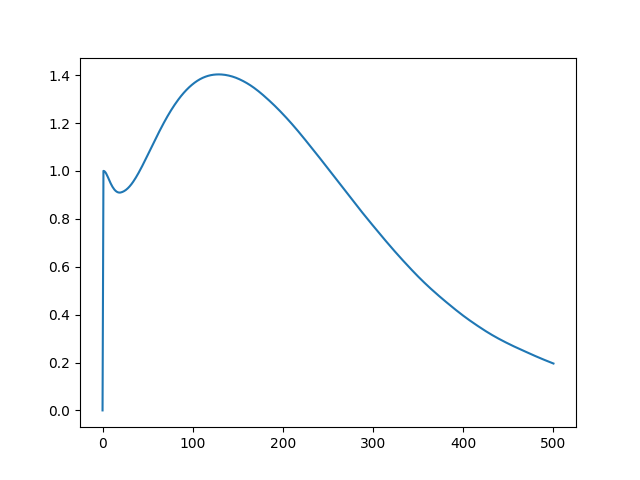
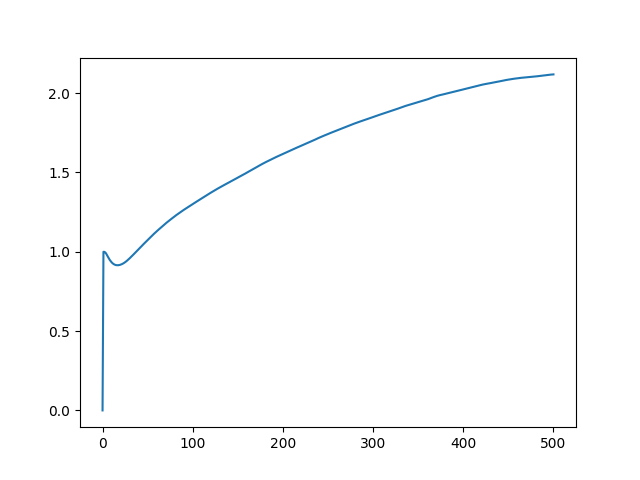
refined disturbance rej and added target opti

diff --git a/src/offset_free_mpc.py b/src/offset_free_mpc.py
@@ -9,6 +9,7 @@ from draw import animated
 from mpc_solver import mpc_solve
 import math
 from pathlib import Path
+from optimal_target import opti_target_online
 
 
 path_in_dir_script = Path(__file__).parent #fold where the main script is
@@ -101,21 +102,19 @@ T = 5
 time = np.arange(0, T, dt)
 
 #Q and R Matrices
-Q = sp.linalg.block_diag(1000,100,100,1,1,1,0) #having no weight on the disturbance component
+Q = sp.linalg.block_diag(1000,100,100,1,1,1) #having no weight on the disturbance component
 
 R = 100
 
 #solution to dare
-P ,_,K = ct.dare(A, B ,Q[:-1,:-1] ,R)
-
-P = sp.linalg.block_diag(P,1)
+P ,_,K = ct.dare(A, B ,Q, R)
 
 #Noise covariance for the system
-meas_cov = np.diag([1e-4, 1e-3, 1e-3, 1e-2, 1e-2, 1e-2])
-dyn_cov = np.diag([1e-6, 1e-4, 1e-4, 1e-3, 1e-3, 1e-3,0])
+meas_cov = np.diag([1e-3, 1e-2, 1e-2, 1e-2, 1e-2, 1e-2])
+dyn_cov = np.diag([1e-3, 1e-2, 1e-2, 1e-3, 1e-3, 1e-3,0])
 
 #Disturbance on the system
-dist = 1 #constant disturbance to the system
+dist = 10 #constant disturbance to the system
 
 #prior for kalman filter
 x_aug = np.array([0, 0, 0, 0, 0, 0, 0]) #augmented states with disturbance
@@ -130,28 +129,42 @@ states = [y]
 theta_const = math.radians(10)
 x_const = 3
 u_const = 100
+o = 5
 
-x_ref = np.array([0,math.radians(0),-math.radians(0),0,0,0,0])
-
-x_ub = np.array([x_const, theta_const, theta_const, float('inf'),float('inf'),float('inf'),float('inf')])
-x_lb = np.array([-x_const,-theta_const,-theta_const,float('-inf'),float('-inf'),float('-inf'),float('-inf')])
+x_ub = np.array([x_const, theta_const, theta_const, o, o, o])
+x_lb = np.array([-x_const,-theta_const,-theta_const,-o,-o,-o])
 u_ub = u_const
 u_lb = -u_const
 
+#selecting our desired final state
+x_des = np.array([0,math.radians(0),math.radians(0),0,0,0])
+u_des = 0
+
 control_inputs = [0]
 
+#determining the horizon
 N = (T/dt)*0.2
 N = int(N) 
 
+#storing the errors
 error = y - x_aug[:-1]
 error = [error]
 
+#storing the optimal target
+x_target = []
+u_target = []
+
 #Off-set free MPC with Kalman filter
 for t in time:
-
+    
     print(f"Percentage done",(t/T)*100)
+    #determining optimal target
+    x_ref ,u_ref = opti_target_online(A, B, C, x_aug[-1], 0, x_des=x_des, u_des=u_des)
+    x_target.append(x_ref)
+    u_target.append(u_ref)
+
     #solving the MPC
-    u = mpc_solve(A_aug, B_aug, Q, R, P, x_aug, N, x_lb, x_ub, u_lb, u_ub, x_ref)
+    u = mpc_solve(A, B, Q, R, P, x_aug[:-1], N, x_lb, x_ub, u_lb, u_ub, x_ref, u_ref)
 
     #time update
     x_aug = A_aug @ x_aug + B_aug @ u[0]
@@ -178,11 +191,15 @@ for t in time:
 states = np.array(states)
 error = np.array(error)
 states_aug = np.array(states_aug)
+x_target = np.array(x_target)
+u_target = np.array(u_target)
+
 animated(states, time, params, control_inputs,path_out_dir/"MPC_offset_free.gif")
 
+#plotting everything
 plt.figure()
-plt.plot(control_inputs)
-plt.savefig(path_out_dir/"./Control_input_offset_free.png")
+plt.plot(states_aug[:,6])
+plt.savefig(path_out_dir/"./Estimated_Disturbance.png")
 
 plt.figure()
 plt.plot(states_aug[:,0])
@@ -190,11 +207,19 @@ plt.savefig(path_out_dir/"./Position_offset_free.png")
 
 plt.figure()
 plt.plot(np.rad2deg(states_aug[:,1]))
-plt.savefig(path_out_dir/"./theta1_offset_free.png")
+plt.plot(np.rad2deg(states_aug[:,2]))
+plt.legend(['Theta1','Theta2'])
+plt.savefig(path_out_dir/"./theta_offset_free.png")
 
 plt.figure()
-plt.plot(np.rad2deg(states_aug[:,2]))
-plt.savefig(path_out_dir/"./theta2_offset_free.png")
+plt.plot(states_aug[:,3])
+plt.savefig(path_out_dir/"./Position_dot_offset_free.png")
+
+plt.figure()
+plt.plot(states_aug[:,4])
+plt.plot(states_aug[:,5])
+plt.legend(['Theta1_dot','Theta2_dot'])
+plt.savefig(path_out_dir/"./theta_dot_offset_free.png")
 
 plt.figure()
 plt.plot(control_inputs)
@@ -206,8 +231,40 @@ plt.savefig(path_out_dir/"./Position_error.png")
 
 plt.figure()
 plt.plot(np.rad2deg(error[:,1]))
-plt.savefig(path_out_dir/"./theta1_error.png")
+plt.plot(np.rad2deg(error[:,2]))
+plt.legend(['Theta1','Theta2'])
+plt.savefig(path_out_dir/"./theta_error.png")
 
 plt.figure()
-plt.plot(np.rad2deg(error[:,2]))
-plt.savefig(path_out_dir/"./theta2_error.png")
+plt.plot(error[:,3])
+plt.savefig(path_out_dir/"./Position_dot_error.png")
+
+plt.figure()
+plt.plot(error[:,4])
+plt.plot(error[:,5])
+plt.legend(['Theta1_dot','Theta2_dot'])
+plt.savefig(path_out_dir/"./theta_dot_error.png")
+
+plt.figure()
+plt.plot(x_target[:,0])
+plt.savefig(path_out_dir/"./Position_target.png")
+
+plt.figure()
+plt.plot(np.rad2deg(x_target[:,1]))
+plt.plot(np.rad2deg(x_target[:,2]))
+plt.legend(['Theta1','Theta2'])
+plt.savefig(path_out_dir/"./theta_target.png")
+
+plt.figure()
+plt.plot(x_target[:,3])
+plt.savefig(path_out_dir/"./Position_dot_target.png")
+
+plt.figure()
+plt.plot(x_target[:,4])
+plt.plot(x_target[:,5])
+plt.legend(['Theta1_dot','Theta2_dot'])
+plt.savefig(path_out_dir/"./theta_dot_target.png")
+
+plt.figure()
+plt.plot(u_target)
+plt.savefig(path_out_dir/"./Control_input_target.png")

diff --git a/src/regulation_mpc.py b/src/regulation_mpc.py
@@ -93,6 +93,7 @@ x_const = 3
 u_const = 100
 
 x_ref = np.array([2,math.radians(0),-math.radians(0),0,0,0])
+u_ref = 0
 
 x_ub = np.array([x_const, theta_const, theta_const, float('inf'),float('inf'),float('inf')])
 x_lb = np.array([-x_const,-theta_const,-theta_const,float('-inf'),float('-inf'),float('-inf')])
@@ -107,7 +108,7 @@ N = int(N)
 print(N)
 # Simulation loop
 for t in time:
-    u = mpc_solve(A, B, Q, R, P, states[-1], N, x_lb, x_ub, u_lb, u_ub,x_ref)
+    u = mpc_solve(A, B, Q, R, P, states[-1], N, x_lb, x_ub, u_lb, u_ub, x_ref, u_ref)
     print(f"Percentage done",(t/T)*100)
     y = rk4_step(y, dt,params,u[0][0])
     control_inputs.append(u[0][0])
@@ -124,14 +125,23 @@ plt.figure()
 plt.plot(control_inputs)
 plt.savefig(path_out_dir/"./Control_input.png")
 
+
 plt.figure()
 plt.plot(states[:,0])
-plt.savefig(path_out_dir/"./Position.png")
+plt.savefig(path_out_dir/"./Position_offset_free.png")
 
 plt.figure()
 plt.plot(np.rad2deg(states[:,1]))
-plt.savefig(path_out_dir/"./theta1.png")
+plt.plot(np.rad2deg(states[:,2]))
+plt.legend(['Theta1','Theta2'])
+plt.savefig(path_out_dir/"./theta_offset_free.png")
 
 plt.figure()
-plt.plot(np.rad2deg(states[:,2]))
-plt.savefig(path_out_dir/"./theta2.png")
+plt.plot(states[:,3])
+plt.savefig(path_out_dir/"./Position_dot_offset_free.png")
+
+plt.figure()
+plt.plot(states[:,4])
+plt.plot(states[:,5])
+plt.legend(['Theta1_dot','Theta2_dot'])
+plt.savefig(path_out_dir/"./theta_dot_offset_free.png")

diff --git a/src/optimal_target.py b/src/optimal_target.py
@@ -1,0 +1,29 @@
+import cvxpy as cp
+import numpy as np
+from quadprog import solve_qp
+import scipy as sp
+import matplotlib.pyplot as plt
+import scipy as sp
+import control as ct
+import gurobipy
+
+def opti_target_online(A, B, C, d_hat, y_ref, x_des, u_des):
+
+    #defining the weights 
+    Q = np.eye(A.shape[0])
+    R = 1
+
+    #defining the optimization variables
+    x_ref = cp.Variable(A.shape[0])
+    u_ref = cp.Variable(B.shape[1])
+
+    constraints = []
+    constraints += [x_ref  == A @ (x_ref) + B @ (u_ref + d_hat)]
+    # constraints += [C @ (x_ref) == C @ x_des - d_hat]
+    
+    cost = 0.5 * cp.quad_form(x_des - x_ref, Q) + 0.5 * cp.quad_form(u_des - u_ref, R*np.eye(u_ref.shape[0]))
+    
+    prob = cp.Problem(cp.Minimize(cost), constraints)
+    prob.solve(solver = cp.GUROBI,verbose=False)
+
+    return x_ref.value, u_ref.value

diff --git a/src/mpc_solver.py b/src/mpc_solver.py
@@ -8,7 +8,7 @@ import scipy as sp
 import control as ct
 import gurobipy
 
-def mpc_solve(A, B, Q, R, P, x0, N, x_lb, x_ub, u_lb, u_ub,x_ref):
+def mpc_solve(A, B, Q, R, P, x0, N, x_lb, x_ub, u_lb, u_ub, x_ref, u_ref):
     
     dim_x = A.shape[0]
     dim_u = B.shape[1]
@@ -26,7 +26,7 @@ def mpc_solve(A, B, Q, R, P, x0, N, x_lb, x_ub, u_lb, u_ub,x_ref):
         constraints += [x_bar[t+1, :] <= x_ub , x_bar[t+1,:] >= x_lb]
         constraints += [u_lb <= u_bar[t, :], u_bar[t, :] <= u_ub] 
 
-        cost += 0.5 * cp.quad_form(x_bar[t, :] - x_ref, Q) + 0.5 * cp.quad_form(u_bar[t, :], R*np.eye(u_bar[t,:].shape[0]))
+        cost += 0.5 * cp.quad_form(x_bar[t, :] - x_ref, Q) + 0.5 * cp.quad_form(u_bar[t, :] - u_ref, R*np.eye(u_bar[t,:].shape[0]))
     
     cost += 0.5 * cp.quad_form(x_bar[N, :] - x_ref, P)
     
